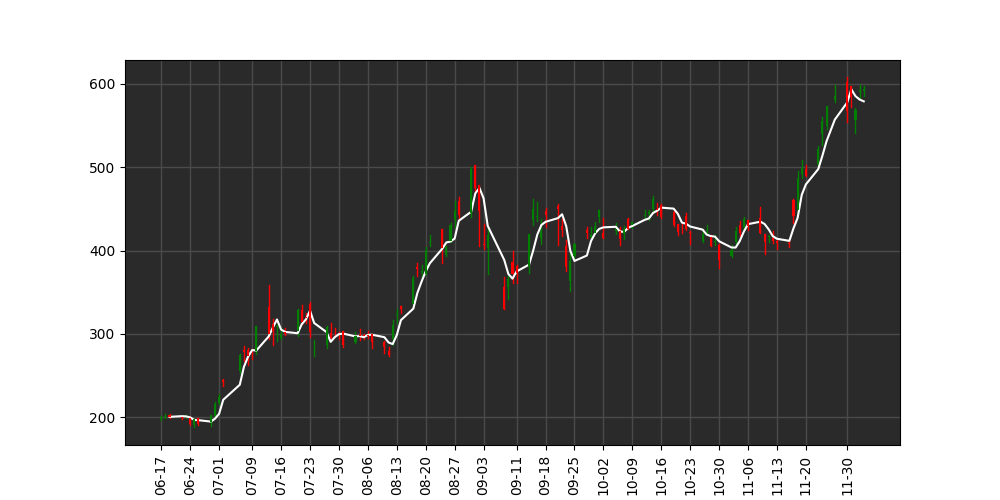
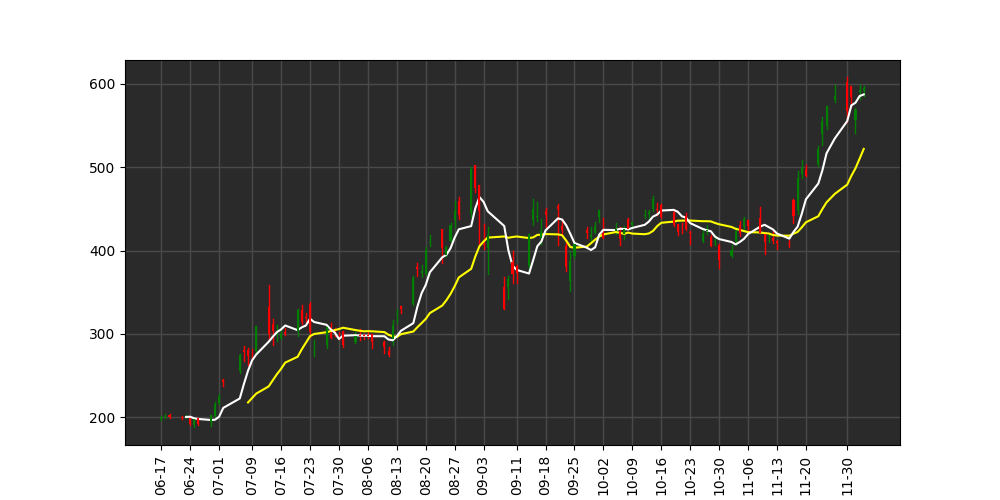
introduced variable window length sma

diff --git a/process.py b/process.py
@@ -2,13 +2,13 @@
 # TODO: implement source code for algos
 import numpy as np
 
-def sma(ax, data, color):
+def sma(window, ax, data, color):
     
     # create new collumn and fill it with the mean for the last 3 bars 
     
-    data['sma3'] = data.iloc[:,1].rolling(window=3).mean()
+    data['sma'] = data.iloc[:,1].rolling(window=window).mean()
     # plot new data
-    ax.plot(data['bar'],data['sma3'],color=color)
+    ax.plot(data['bar'],data['sma'],color=color)
     
     print(data.head())
     return ax

diff --git a/visualize.py b/visualize.py
@@ -15,7 +15,8 @@ ax = fig.add_subplot(111)
 
 # draw chart from data
 ax = data.draw_chart(ax, data.sec_hist, 'green','red')
-ax = process.sma(ax, data.sec_hist, 'white')
+ax = process.sma(15, ax, data.sec_hist, 'yellow')
+ax = process.sma(5, ax, data.sec_hist, 'white')
 # plot grid
 ax.grid(linestyle='-', linewidth=1, color='#4a4a4a', zorder=1)
 
